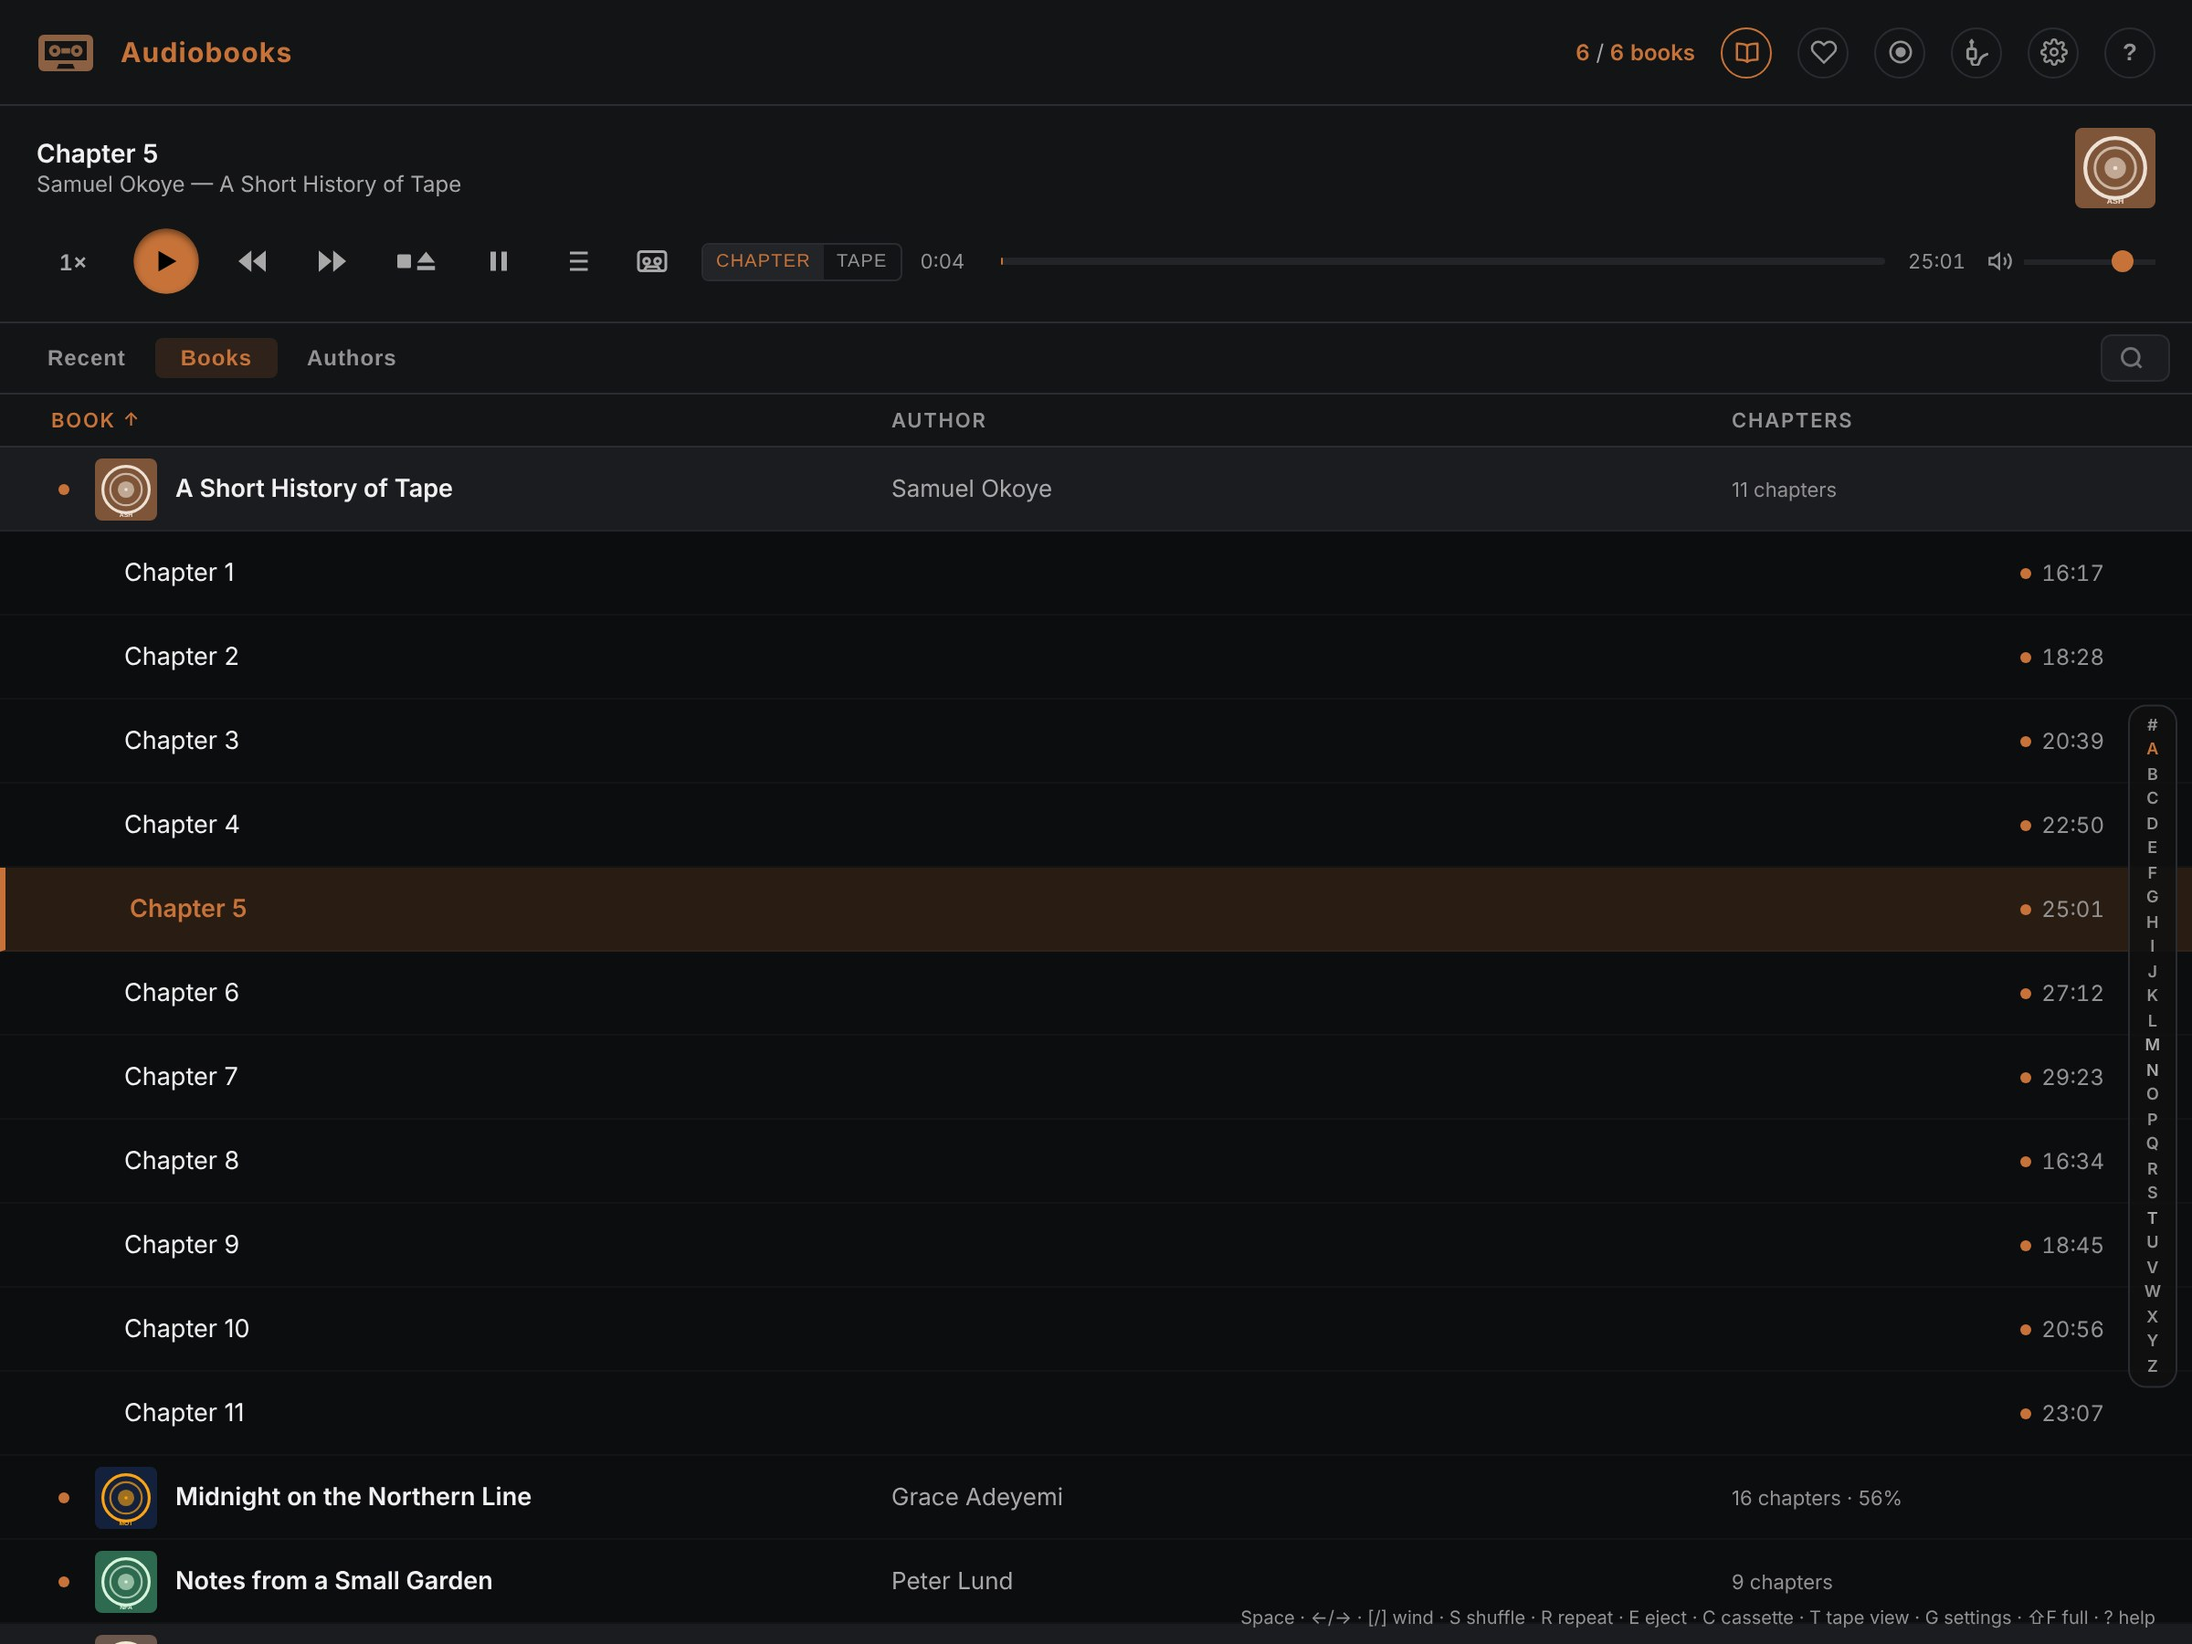
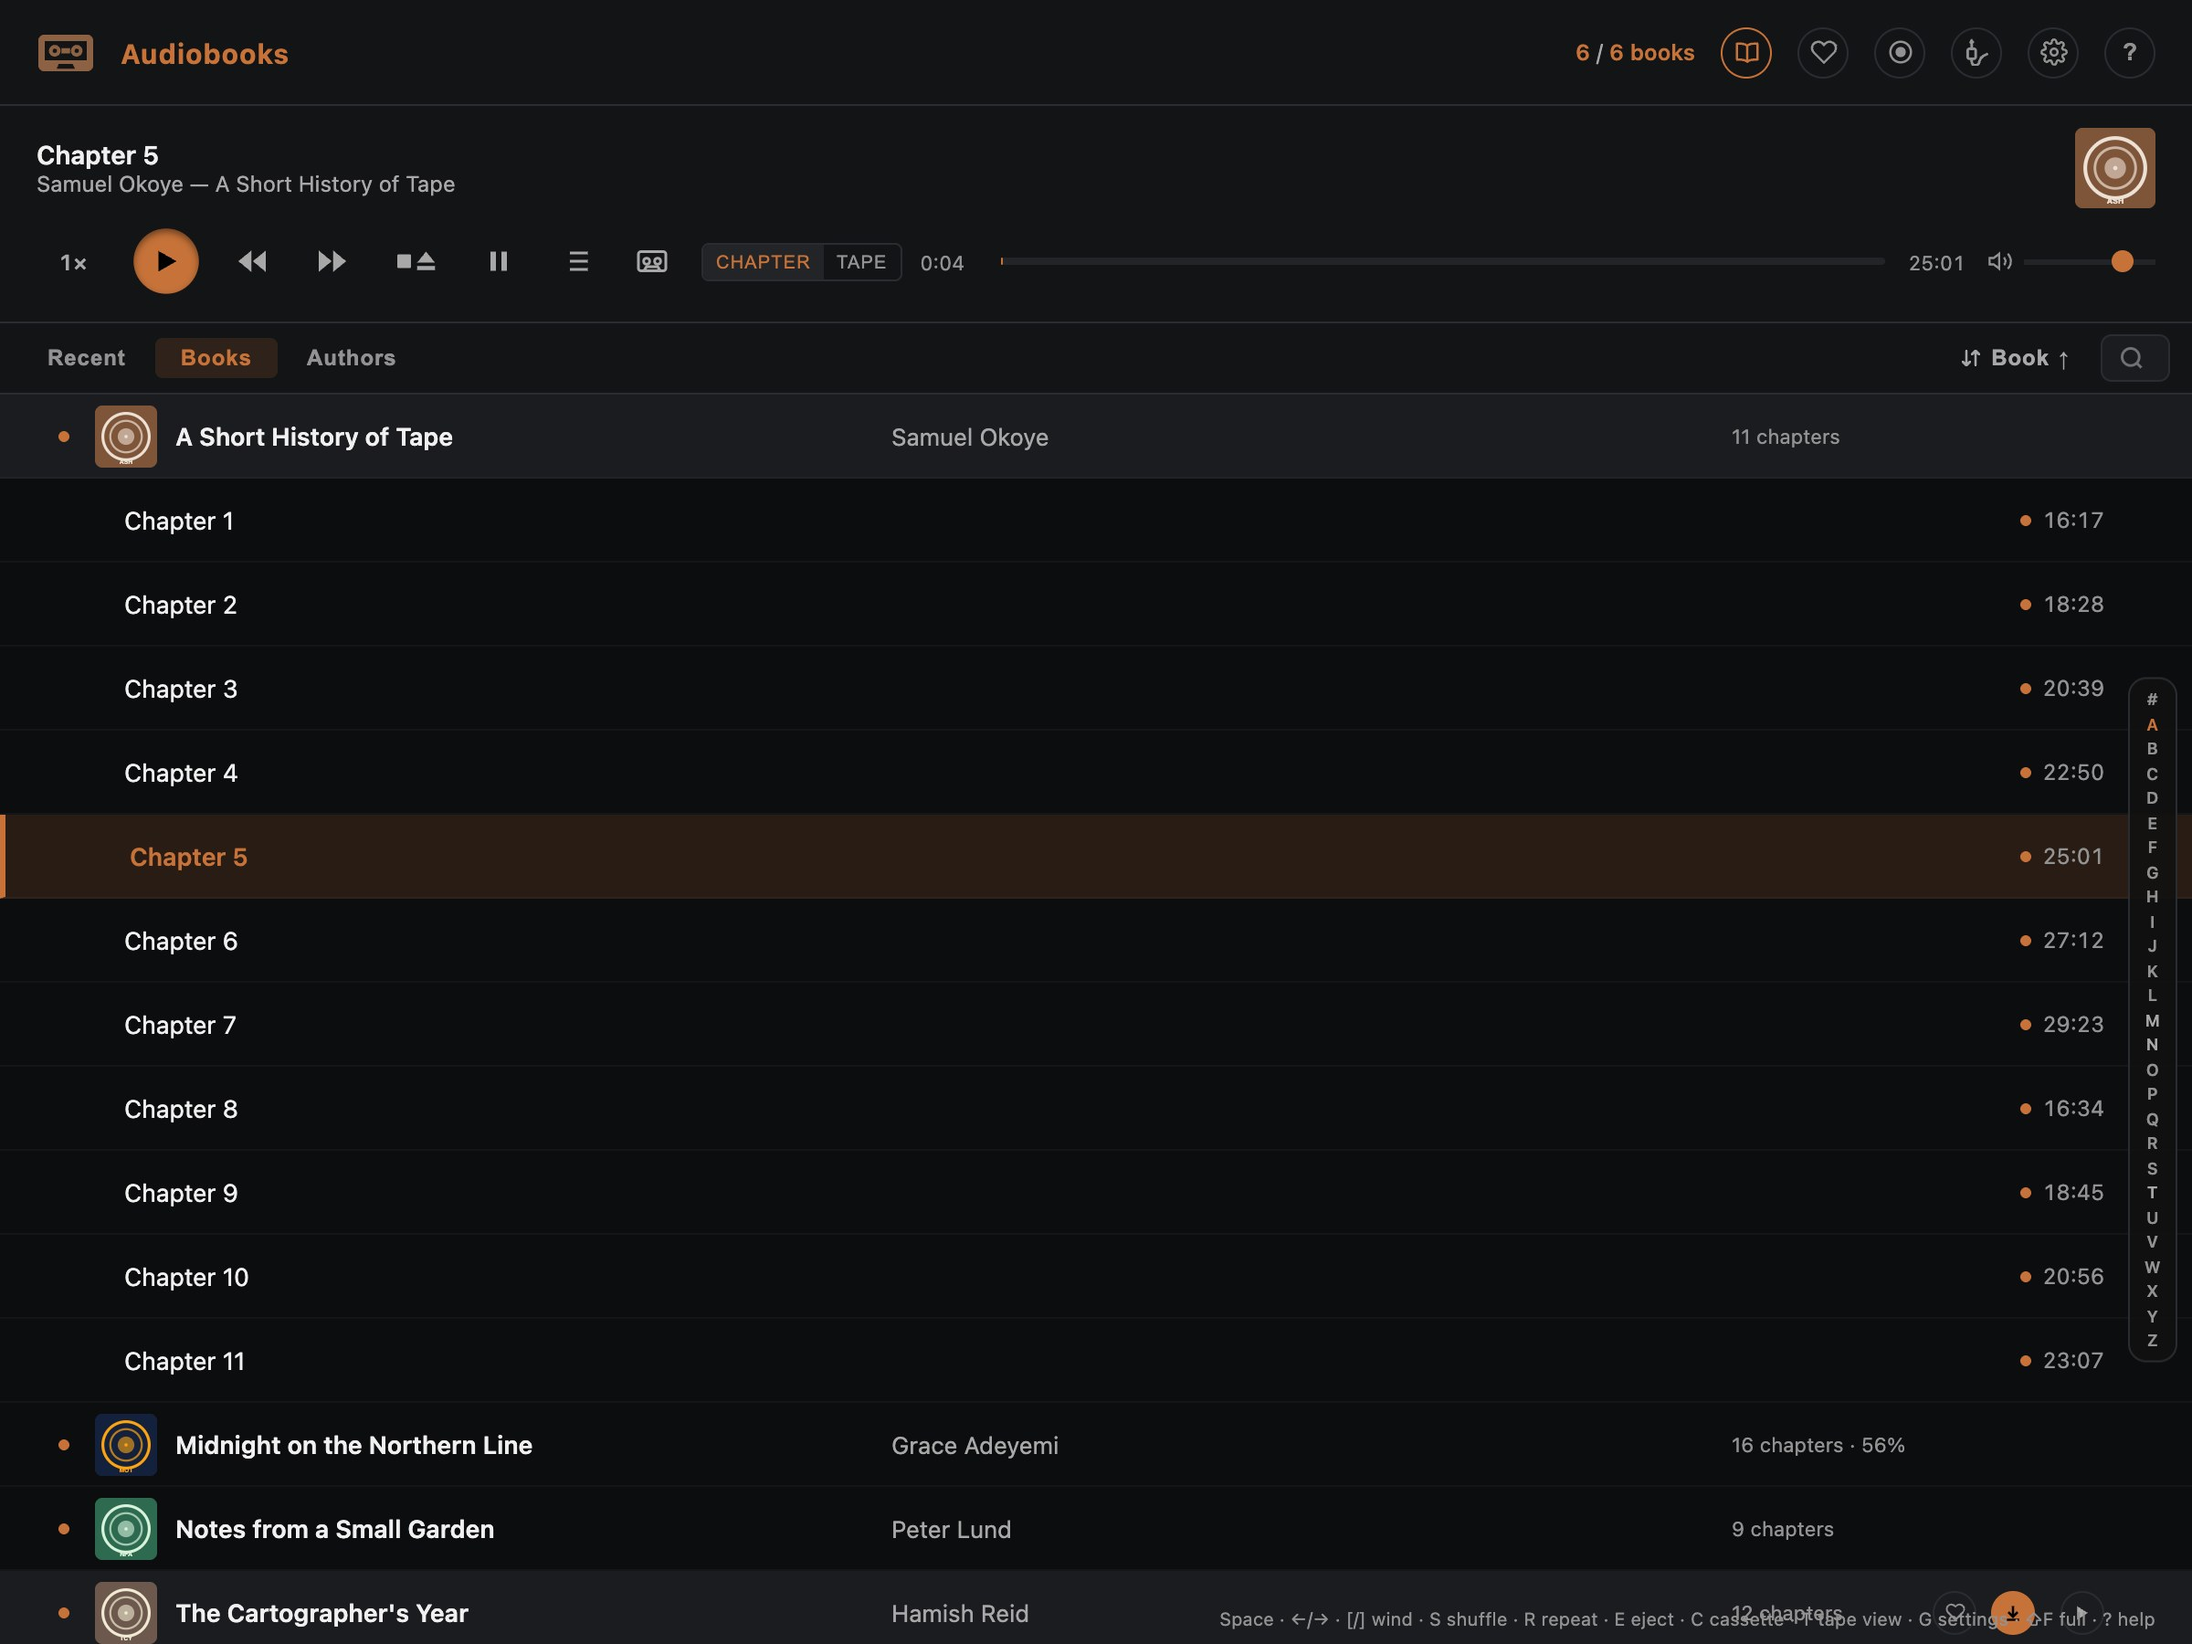
Nav without Stories and the Hills; /tapedeck/ up to Tape Deck 4.18

diff --git a/tapedeck/help.html b/tapedeck/help.html
@@ -31,6 +31,7 @@
     <li><a href="#library">Your library</a></li>
     <li><a href="#books">Audiobooks</a></li>
     <li><a href="#watch">Apple Watch</a></li>
+    <li><a href="#car">In the car</a></li>
     <li><a href="#mac">On the Mac</a></li>
     <li><a href="#keys">Keyboard</a></li>
     <li><a href="#faq">Questions</a></li>
@@ -39,10 +40,12 @@
 
 <section id="start" aria-labelledby="start-h">
   <h2 id="start-h">Getting started</h2>
-  <p>Tape Deck plays music you already have. There are two ways to bring it in, and you can use both.</p>
+  <p>Tape Deck plays music you already have. There are a few ways to bring it in, and you can use them together.</p>
   <dl>
     <dt>Copy albums into the app</dt>
     <dd>On an iPhone or iPad, open the Files app and copy album folders into <b>On My iPhone › Tape Deck</b> (or On My iPad), laid out as Artist › Album › tracks. On the Mac, choose File › Show Albums Folder and copy them in there. The app picks them up when you come back to it.</dd>
+    <dt>Through iCloud Drive</dt>
+    <dd>Copy album folders into <b>iCloud Drive › Tape Deck › Music</b>, laid out as Artist › Album › tracks, and they're in the app on every iPhone, iPad and Mac signed in to the same iCloud. An album fills in, track by track, as iCloud brings it to each device. Open the app once on a device for the Tape Deck folder to appear there.</dd>
     <dt>Play from your own music server</dt>
     <dd>If you run a Tape Deck music server, type its address in <b>tape settings › Library › Music server</b>, or on the first screen when there's no music yet. The whole library on it is listed; a track downloads when you play it, and the rest of its album after it.</dd>
     <dt>A music folder on the Mac</dt>
@@ -74,7 +77,7 @@
     <dt>A chewed tape</dt>
     <dd>At the Chewed end of the tape condition, the deck now and then eats the tape and a loop falls out over the page. Press Play, or tap the tape, to wind it back in, and the music carries on where it stopped. On Apple Watch, turn the Digital Crown to wind it in with the pencil. Turn the condition down if you'd rather it didn't.</dd>
     <dt>With the screen off</dt>
-    <dd>Music keeps playing with the screen locked or the app in the background, and the lock screen, Control Centre and headphone controls work. A call or an alarm stops the tape, and it carries on afterwards; taking the headphones out stops it.</dd>
+    <dd>Music keeps playing with the screen locked or the app in the background, and the lock screen, Control Centre and headphone controls work. A call or an alarm stops the tape, and it carries on afterwards; so does the car's announcement. Taking the headphones out, or leaving the car, stops it.</dd>
     <dt>AirPlay speakers</dt>
     <dd>The jack plug in the header lists your AirPlay speakers. Choose one and the tape plays there, and the cassette is drawn a little late to keep time with what you hear.</dd>
   </dl>
@@ -101,6 +104,8 @@
   <dl>
     <dt>Views</dt>
     <dd>Recent, Albums, Artists and Tracks, from the tabs above the list. Recent is the ten albums you listened to last, then the ten newest in your library.</dd>
+    <dt>Sort</dt>
+    <dd>The button beside the search names the order the list is in. Click it for the view's columns; choose the one already in use to turn the order round. Recent has its own order and no button.</dd>
     <dt>Search</dt>
     <dd>Searches title, artist and album as you type; every word has to match somewhere, and accents don't need typing. <kbd>Esc</kbd>, or the cross in the box, clears it.</dd>
     <dt>Favourites</dt>
@@ -108,7 +113,7 @@
     <dt>What's on this device</dt>
     <dd>A yellow dot means an album or track is on this device; a ring means part of the album is. The ring-and-dot button in the header shows only what's on this device. When the server can't be reached, everything else is dimmed and skipped.</dd>
     <dt>Downloads</dt>
-    <dd>The download button beside an album's ▶ fetches it without playing it, and × removes the downloaded copy (music you copied in yourself is never removed). Tape settings › Library › Downloads sets how much space to keep, 20 GB unless you change it; past that, the albums played longest ago are removed first. Download there, or a long press on the header's heart, fetches every favourite.</dd>
+    <dd>The download button beside an album's ▶ fetches it without playing it, and × removes the downloaded copy (music you copied in yourself is never removed). A track has its own download button beside its heart, for that one track. Tape settings › Library › Downloads sets how much space to keep, 20 GB unless you change it; past that, the albums played longest ago are removed first. Download there, or a long press on the header's heart, fetches every favourite.</dd>
   </dl>
 </section>
 
@@ -141,6 +146,18 @@
     <dd>Swipe left for the albums you played last, as cassette cases on a shelf, and again for the books you're reading. Tap one to play it.</dd>
     <dt>The complication</dt>
     <dd>Touch and hold your watch face, tap Edit, and choose Tape Deck for one of its complications. It shows a cassette, and what's playing where there's room. Tap it to open the app.</dd>
+  </dl>
+</section>
+
+<section id="car" aria-labelledby="car-h">
+  <h2 id="car-h">In the car, and Siri</h2>
+  <dl>
+    <dt>CarPlay</dt>
+    <dd>Connect your iPhone and choose Tape Deck on the car's screen: Recent, Albums, Artists and, with an Audiobookshelf server, Books. While the car is moving a long list comes in runs, A–C, D–F, and within a letter by name, so all of it can be reached. Recent is the five albums you listened to last and the five newest.</dd>
+    <dt>Now Playing</dt>
+    <dd>The car's Now Playing shows the cassette, with a key to turn it over. Its picture, also on your lock screen, is set in tape settings › Look › Its shape: the cassette's window, the whole tape on the album's colours, or the whole tape wide.</dd>
+    <dt>Siri and Shortcuts</dt>
+    <dd>"Carry on the tape in Tape Deck" (or "Play Tape Deck") plays the tape in the deck from where it stopped, a book too. "Play what's new in Tape Deck" plays the album that came into your library last. "Stop Tape Deck" stops it. All three are in the Shortcuts app as well.</dd>
   </dl>
 </section>
 

diff --git a/tapedeck/index.html b/tapedeck/index.html
@@ -4,7 +4,7 @@
 <meta charset="utf-8">
 <meta name="viewport" content="width=device-width, initial-scale=1">
 <title>Tape Deck</title>
-<meta name="description" content="Tape Deck plays your music library as a cassette, drawn to scale, for iPhone, iPad, Apple Watch and Mac.">
+<meta name="description" content="Tape Deck plays your music library as a cassette, drawn to scale, for iPhone, iPad, Apple Watch, Mac and CarPlay.">
 <meta property="og:title" content="Tape Deck">
 <meta property="og:description" content="Your music library, played as a cassette. For iPhone, iPad, Apple Watch and Mac.">
 <meta property="og:image" content="https://www.andybateman.com/tapedeck/img/hero.jpg">
@@ -36,7 +36,7 @@
     <a class="button" href="#get">Try the beta</a>
     <a class="button ghost" href="help.html">Read the help</a>
   </div>
-  <p class="platforms">iPhone · iPad · Apple Watch · Mac</p>
+  <p class="platforms">iPhone · iPad · Apple Watch · Mac · CarPlay</p>
   <img class="shot" src="img/hero.jpg" alt="Tape Deck on the Mac: a cassette docked above the transport keys, and the albums list under it" width="2560" height="1600">
 </header>
 
@@ -92,9 +92,10 @@
   <p>Tape Deck plays music you own. Copy it into the app, or point it at your own music server and play everything on it.</p>
   <div class="grid">
     <div class="card"><h3>Recent first</h3><p>The albums you listened to last, then what's new in your library.</p></div>
-    <div class="card"><h3>Albums, artists, tracks</h3><p>Sort by anything, jump by letter, and search as you type. A search forgives a missing accent.</p></div>
+    <div class="card"><h3>Albums, artists, tracks</h3><p>Sort from one button, jump by letter, and search as you type. A search forgives a missing accent.</p></div>
     <div class="card"><h3>Favourites everywhere</h3><p>A heart on a track or a whole album follows you between your iPhone, iPad and Mac through iCloud.</p></div>
-    <div class="card"><h3>Downloads</h3><p>From a server, an album downloads as you play it, or ahead of time for the train. You choose how much space to give it.</p></div>
+    <div class="card"><h3>Downloads</h3><p>From a server, an album downloads as you play it, or ahead of time for the train, a whole album or a single track. You choose how much space to give it.</p></div>
+    <div class="card"><h3>Through iCloud Drive</h3><p>Put albums in the Tape Deck folder in iCloud Drive and they're on your iPhone, iPad and Mac, filling in as iCloud brings them.</p></div>
   </div>
 </section>
 
@@ -127,6 +128,17 @@
   </div>
 </section>
 
+<section aria-labelledby="car">
+  <h2 id="car">In the car, and with Siri</h2>
+  <p>Tape Deck is a CarPlay app. Choose from your music and your books on the car's screen, and the tape in your iPhone's deck plays.</p>
+  <ul class="ticks">
+    <li><strong>Recent, Albums, Artists and Books</strong> on the car's screen. A long list comes in runs of letters and names, so all of it can be reached while you drive.</li>
+    <li><strong>A square picture</strong> on the car's Now Playing and your lock screen: the cassette's window, or the whole tape on the album's colours.</li>
+    <li><strong>It carries on</strong> after a call or the car's own announcement.</li>
+    <li><strong>Ask Siri</strong> to "Carry on the tape in Tape Deck", "Play what's new in Tape Deck" or "Stop Tape Deck", or use them in the Shortcuts app.</li>
+  </ul>
+</section>
+
 <section aria-labelledby="devices">
   <h2 id="devices">On iPhone, iPad and Mac</h2>
   <p>One app, at home on each.</p>
@@ -134,7 +146,7 @@
     <ul class="ticks">
       <li><strong>On the iPhone,</strong> turn it sideways and the cassette fills the screen. Haptics let you feel the keys and the reels.</li>
       <li><strong>On the Mac,</strong> menus with the standard shortcuts, a mini player that floats above your work, and the media keys.</li>
-      <li><strong>Everywhere,</strong> the lock screen and Control Centre, AirPlay speakers with the cassette kept in time with what you hear, and playing on after a call.</li>
+      <li><strong>Everywhere,</strong> the lock screen and Control Centre, AirPlay speakers with the cassette kept in time with what you hear, and playing on after a call or an announcement.</li>
     </ul>
     <img src="img/phone-landscape.jpg" alt="Tape Deck on an iPhone held sideways, the cassette filling the screen" width="2532" height="1170" loading="lazy">
   </div>

diff --git a/_layouts/default.html b/_layouts/default.html
@@ -25,9 +25,6 @@ layout: compress
         <h3 class="masthead-brand float-md-start mb-0">Andy Bateman</h3>
         <nav class="nav nav-masthead justify-content-center float-md-end">
           <a class="nav-link active" aria-current="page" href="/">Home</a>
-          <a class="nav-link" href="/posts/">Stories</a>
-          <a class="nav-link" href="/wellingtonhills">WLG Hills</a>
-          <a class="nav-link" href="/newzealandhills/">NZ Hills</a>
           <a class="nav-link" href="/mohoe/">Mohoe</a>
           <a class="nav-link" href="/termlogo/">Logo</a>
           <a class="nav-link" href="/tapedeck/">Tape Deck</a>

diff --git a/CHANGELOG.md b/CHANGELOG.md
@@ -34,6 +34,19 @@ All notable changes to the Andy Bateman Personal Website project are documented 
   in the platforms, and an Apple Watch section in the help (the crown, the
   pencil, the shelf, the complication). Links and pictures checked in a browser
 
+### Changed
+- **Masthead nav:** Stories, WLG Hills and NZ Hills taken out of it
+  (`_layouts/default.html`). The pages are still there at their addresses,
+  and the stories keep their own bar (Hills, Map, Stories)
+- **`/tapedeck/` up to Tape Deck 4.18:** CarPlay among the platforms, and a
+  section for the car and Siri (the lists in runs, the square Now Playing
+  picture, carrying on after an announcement, the three Siri phrases); iCloud
+  Drive's Tape Deck folder and single-track downloads in the library; the sort
+  button. The help has the same, with a section of its own for CarPlay and
+  Siri. Its three pictures with the header in them (`hero.jpg`, `chew.jpg`,
+  `books.jpg`) taken again with the header as it is now. Passes the
+  html-proofer checks
+
 ### Planned
 - Apply the type system to the home body and interactive games (Will's hero,
   macaroon, Spacle)
